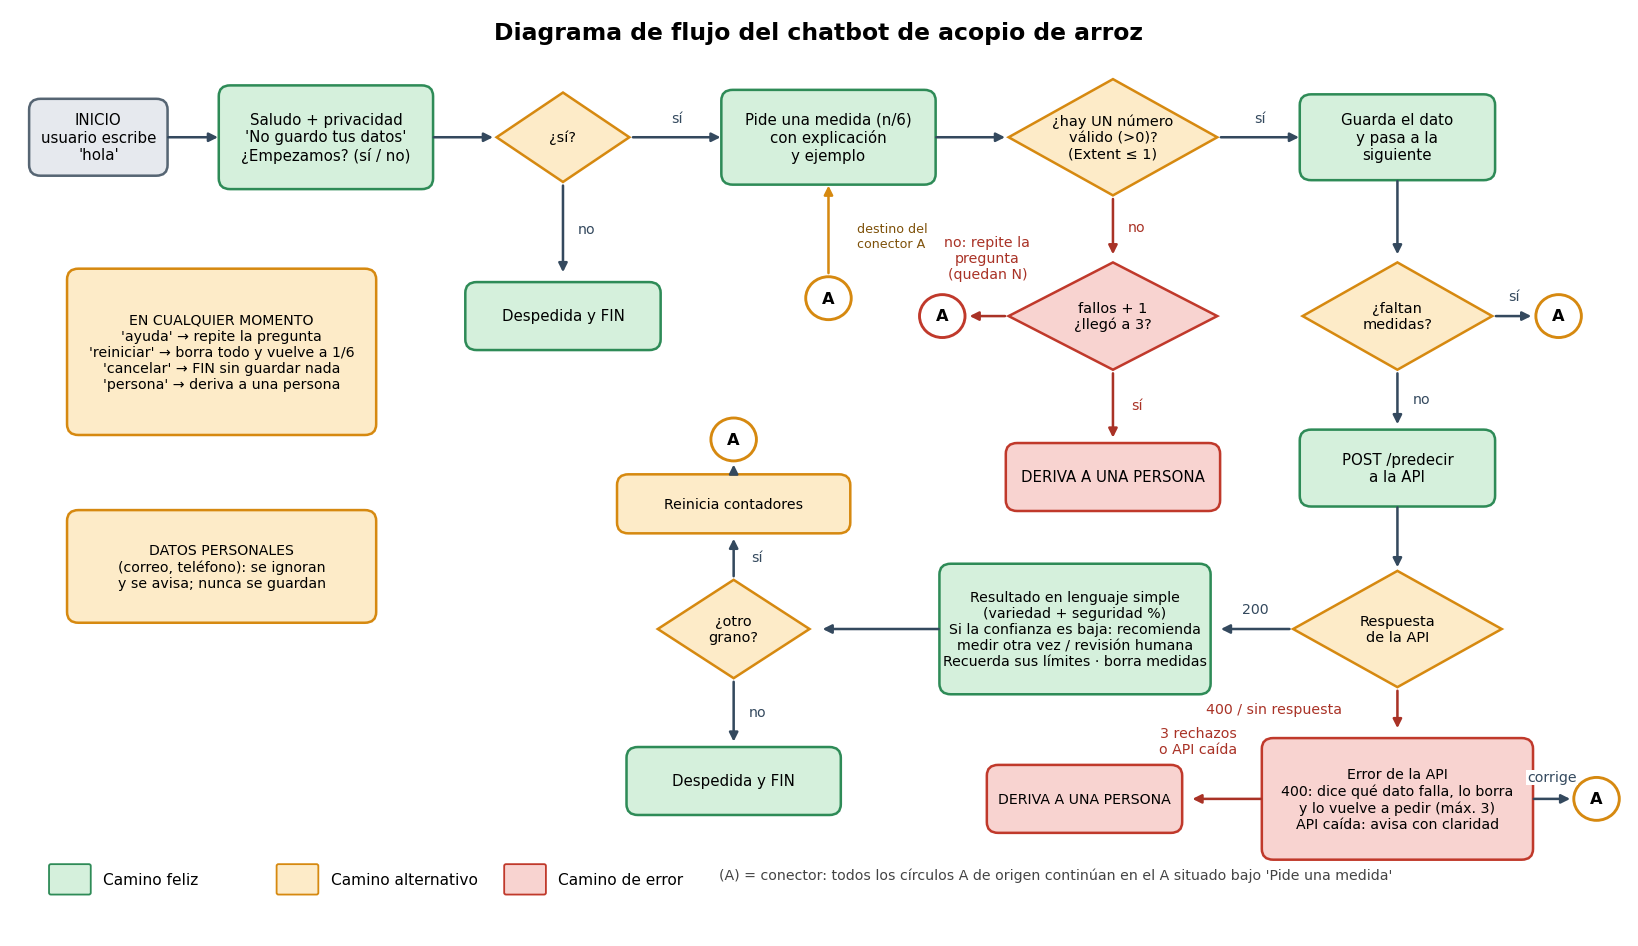
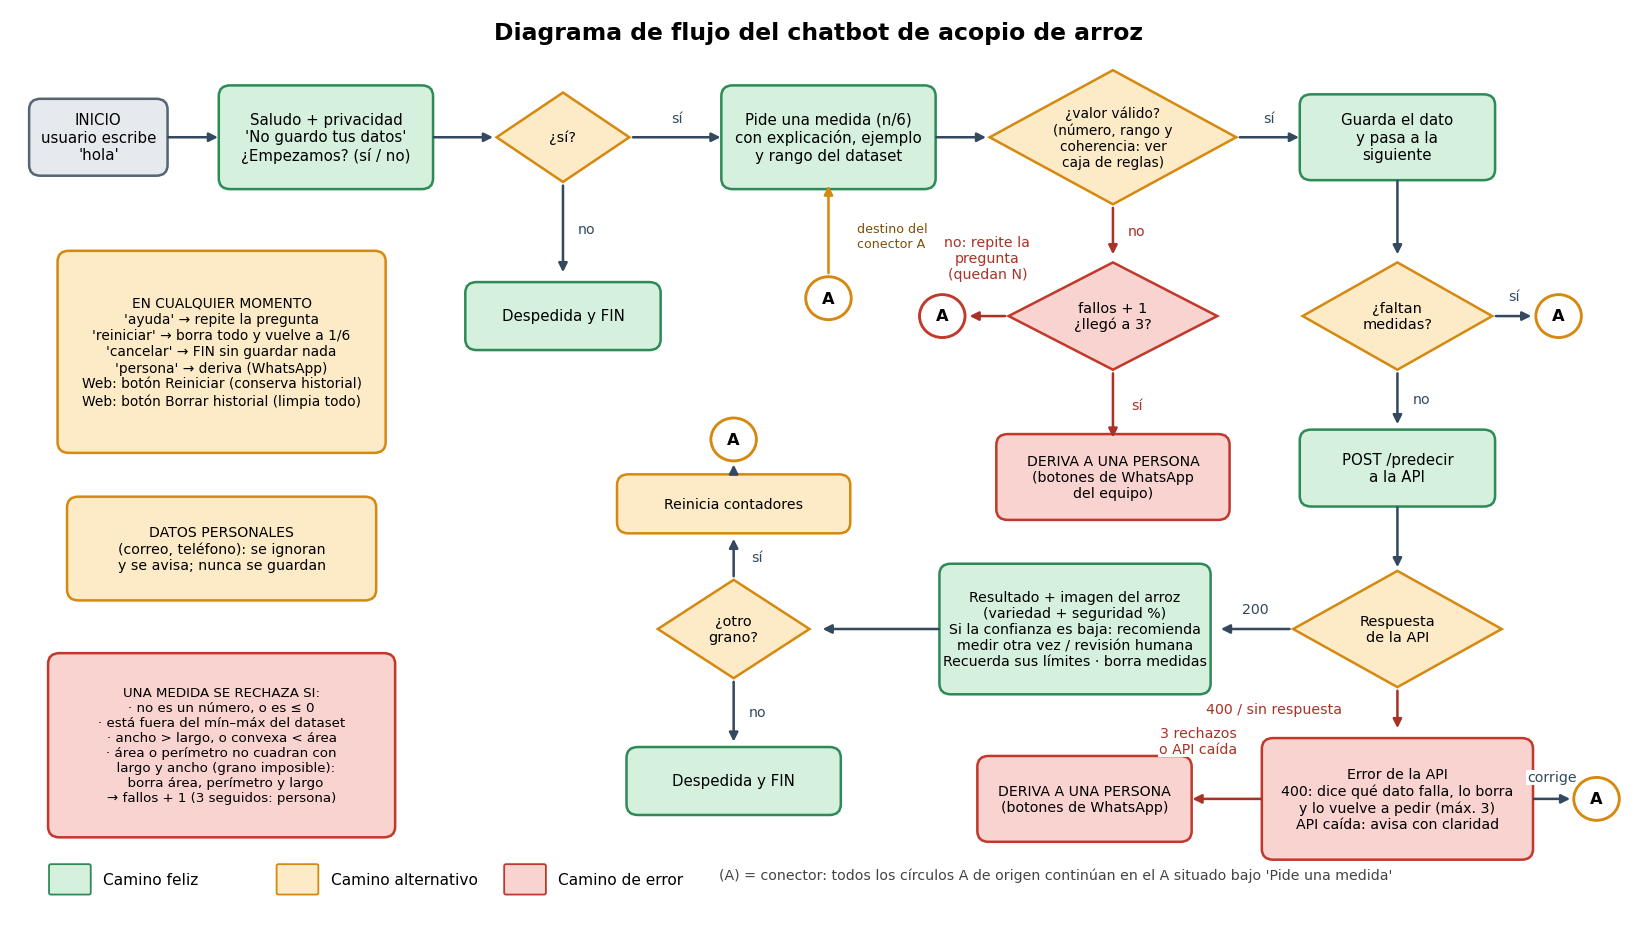
Añadir script generar_diagrama y diagramas de flujo

diff --git a/docs/generar_diagrama.py b/docs/generar_diagrama.py
@@ -1,5 +1,4 @@
-"""Genera docs/diagrama_flujo_chatbot.png (caminos feliz, alternativo y de error).
-Los círculos con letra (A) son conectores: todos los (A) de origen continúan en el (A) de destino."""
+
 from pathlib import Path
 
 import matplotlib
@@ -41,31 +40,27 @@ def flecha(p, q, texto="", color="#34495e", dx=0, dy=0):
 
 ax.text(85, 97, "Diagrama de flujo del chatbot de acopio de arroz", fontsize=13, fontweight="bold", ha="center")
 
-# ---------------- fila 1: camino feliz
 caja(9, 86, 14, 8, "INICIO\nusuario escribe\n'hola'", GRIS)
 caja(33, 86, 22, 11, "Saludo + privacidad\n'No guardo tus datos'\n¿Empezamos? (sí / no)", VERDE)
 rombo(58, 86, 14, 10, "¿sí?")
-caja(86, 86, 22, 10, "Pide una medida (n/6)\ncon explicación\ny ejemplo", VERDE)
-rombo(116, 86, 22, 13, "¿hay UN número\nválido (>0)?\n(Extent ≤ 1)")
+caja(86, 86, 22, 11, "Pide una medida (n/6)\ncon explicación, ejemplo\ny rango del dataset", VERDE)
+rombo(116, 86, 26, 15, "¿valor válido?\n(número, rango y\ncoherencia: ver\ncaja de reglas)", fs=7.6)
 caja(146, 86, 20, 9, "Guarda el dato\ny pasa a la\nsiguiente", VERDE)
 flecha((16, 86), (22, 86)); flecha((44, 86), (51, 86)); flecha((65, 86), (75, 86), "sí", dy=2.2)
-flecha((97, 86), (105, 86)); flecha((127, 86), (136, 86), "sí", dy=2.2)
+flecha((97, 86), (103, 86)); flecha((129, 86), (136, 86), "sí", dy=2.2)
 conector(86, 68, "A")
 flecha((86, 70.4), (86, 81), color="#d68910"); ax.text(89, 75, "destino del\nconector A", fontsize=7, color="#7e5109", va="center")
 
-# ---------------- no quiere empezar
 flecha((58, 81), (58, 70.5), "no", dx=2.5)
 caja(58, 66, 20, 7, "Despedida y FIN", VERDE)
 
-# ---------------- dato inválido -> error
-flecha((116, 79.5), (116, 72.5), "no", color=TXT_ROJO, dx=2.5)
+flecha((116, 78.5), (116, 72.5), "no", color=TXT_ROJO, dx=2.5)
 rombo(116, 66, 22, 12, "fallos + 1\n¿llegó a 3?", ROJO)
 flecha((116, 60), (116, 52), "sí", color=TXT_ROJO, dx=2.5)
-caja(116, 48, 22, 7, "DERIVA A UNA PERSONA", ROJO)
+caja(116, 48, 24, 9, "DERIVA A UNA PERSONA\n(botones de WhatsApp\ndel equipo)", ROJO, 7.8)
 flecha((105, 66), (100.5, 66), "no: repite la\npregunta\n(quedan N)", color=TXT_ROJO, dy=6.5)
 conector(98, 66, "A", ROJO)
 
-# ---------------- seguir pidiendo o consultar
 flecha((146, 81.5), (146, 72.5))
 rombo(146, 66, 20, 12, "¿faltan\nmedidas?")
 flecha((156, 66), (160.5, 66), "sí", dy=2.2)
@@ -75,9 +70,8 @@ caja(146, 49, 20, 8, "POST /predecir\na la API", VERDE)
 flecha((146, 45), (146, 37.5))
 rombo(146, 31, 22, 13, "Respuesta\nde la API")
 
-# ---------------- resultado
 flecha((135, 31), (127, 31), "200", dy=2.2)
-caja(112, 31, 28, 14, "Resultado en lenguaje simple\n(variedad + seguridad %)\nSi la confianza es baja: recomienda\nmedir otra vez / revisión humana\nRecuerda sus límites · borra medidas", VERDE, 7.8)
+caja(112, 31, 28, 14, "Resultado + imagen del arroz\n(variedad + seguridad %)\nSi la confianza es baja: recomienda\nmedir otra vez / revisión humana\nRecuerda sus límites · borra medidas", VERDE, 7.8)
 flecha((98, 31), (85, 31))
 rombo(76, 31, 16, 11, "¿otro\ngrano?")
 flecha((76, 36.5), (76, 41.5), "sí", dx=2.5)
@@ -86,17 +80,17 @@ flecha((76, 48.2), (76, 49.8)); conector(76, 52.2, "A")
 flecha((76, 25.5), (76, 18), "no", dx=2.5)
 caja(76, 14, 22, 7, "Despedida y FIN", VERDE)
 
-# ---------------- errores de la API
 flecha((146, 24.5), (146, 19.5), "400 / sin respuesta", color=TXT_ROJO, dx=-13, dy=0)
 caja(146, 12, 28, 13, "Error de la API\n400: dice qué dato falla, lo borra\ny lo vuelve a pedir (máx. 3)\nAPI caída: avisa con claridad", ROJO, 7.8)
 flecha((132, 12), (124, 12), "3 rechazos\no API caída", color=TXT_ROJO, dx=-3, dy=6.5)
-caja(113, 12, 20, 7, "DERIVA A UNA PERSONA", ROJO, 7.8)
+caja(113, 12, 22, 9, "DERIVA A UNA PERSONA\n(botones de WhatsApp)", ROJO, 7.8)
 flecha((160, 12), (164.6, 12), "corrige", dy=2.4)
 conector(167, 12, "A")
 
-# ---------------- comandos globales
-caja(22, 62, 32, 18, "EN CUALQUIER MOMENTO\n'ayuda' → repite la pregunta\n'reiniciar' → borra todo y vuelve a 1/6\n'cancelar' → FIN sin guardar nada\n'persona' → deriva a una persona", AMBAR, 7.8)
-caja(22, 38, 32, 12, "DATOS PERSONALES\n(correo, teléfono): se ignoran\ny se avisa; nunca se guardan", AMBAR, 7.8)
+caja(22, 62, 34, 22, "EN CUALQUIER MOMENTO\n'ayuda' → repite la pregunta\n'reiniciar' → borra todo y vuelve a 1/6\n'cancelar' → FIN sin guardar nada\n'persona' → deriva (WhatsApp)\nWeb: botón Reiniciar (conserva historial)\nWeb: botón Borrar historial (limpia todo)", AMBAR, 7.6)
+caja(22, 40, 32, 11, "DATOS PERSONALES\n(correo, teléfono): se ignoran\ny se avisa; nunca se guardan", AMBAR, 7.8)
+
+caja(22, 18, 36, 20, "UNA MEDIDA SE RECHAZA SI:\n· no es un número, o es ≤ 0\n· está fuera del mín–máx del dataset\n· ancho > largo, o convexa < área\n· área o perímetro no cuadran con\n  largo y ancho (grano imposible):\n  borra área, perímetro y largo\n→ fallos + 1 (3 seguidos: persona)", ROJO, 7.4)
 
 for i, (c, t) in enumerate([(VERDE, "Camino feliz"), (AMBAR, "Camino alternativo"), (ROJO, "Camino de error")]):
     ax.add_patch(FancyBboxPatch((4 + i * 24, 1.5), 4, 3, boxstyle="round,pad=0.2", fc=c, ec=BORDE[c]))
